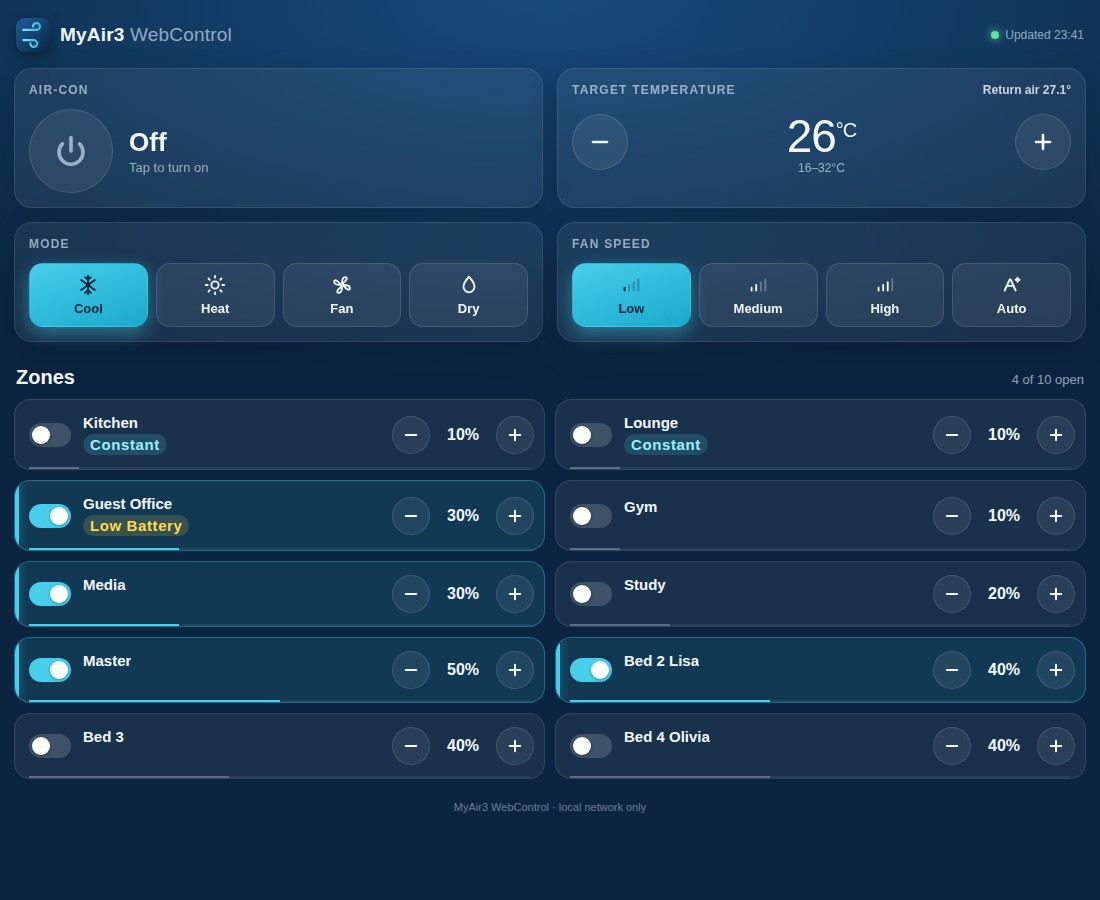
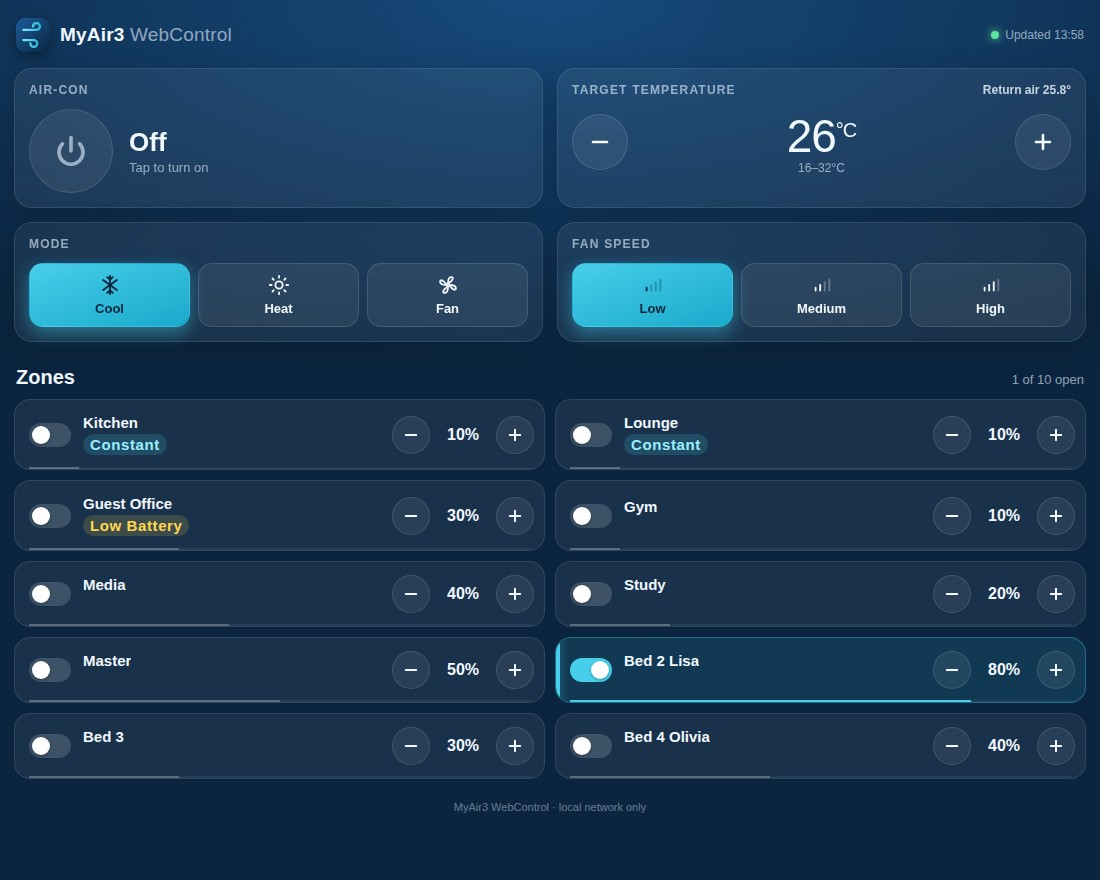
Match the MyAir3 app: hide Dry and Auto, 10% zone steps
The official Android app hides the Dry mode and Auto fan buttons when it
runs as the MyAir3 app, and the MyAir3 wall panel does not offer them.
Zone airflow now moves in 10% steps.

diff --git a/index.html b/index.html
@@ -52,7 +52,7 @@
   .card h2 em { font-style: normal; text-transform: none; letter-spacing: 0; color: var(--text); opacity: .8; }
 
   /* segmented buttons */
-  .seg { display: grid; gap: 8px; grid-template-columns: repeat(4, 1fr); }
+  .seg { display: grid; gap: 8px; grid-template-columns: repeat(3, 1fr); }
   .opt { appearance: none; border: 1px solid var(--idle-edge); background: var(--idle); color: var(--text);
     border-radius: 14px; min-height: 64px; padding: 8px 4px; font: inherit; font-size: 13px; font-weight: 600;
     display: flex; flex-direction: column; align-items: center; justify-content: center; gap: 5px;
@@ -135,11 +135,9 @@
   <symbol id="i-cool" viewBox="0 0 24 24"><path d="M12 2v20M4.5 6.5l15 11M19.5 6.5l-15 11"/><path d="M9 3.5l3 2.5 3-2.5M9 20.5l3-2.5 3 2.5"/></symbol>
   <symbol id="i-heat" viewBox="0 0 24 24"><circle cx="12" cy="12" r="4"/><path d="M12 2v2M12 20v2M4.9 4.9l1.4 1.4M17.7 17.7l1.4 1.4M2 12h2M20 12h2M4.9 19.1l1.4-1.4M17.7 6.3l1.4-1.4"/></symbol>
   <symbol id="i-fan" viewBox="0 0 24 24"><circle cx="12" cy="12" r="1.6"/><path d="M12 10.4c0-4 1-7 3.5-7s3 3.4-3.5 7zM13.6 12c4 0 7 1 7 3.5s-3.4 3-7-3.5zM12 13.6c0 4-1 7-3.5 7s-3-3.4 3.5-7zM10.4 12c-4 0-7-1-7-3.5s3.4-3 7 3.5z"/></symbol>
-  <symbol id="i-dry" viewBox="0 0 24 24"><path d="M12 3s6 6.4 6 11a6 6 0 0 1-12 0c0-4.6 6-11 6-11z"/></symbol>
   <symbol id="i-f1" viewBox="0 0 24 24"><path d="M5 18v-3"/><path d="M10 18v-6" opacity=".3"/><path d="M15 18v-9" opacity=".3"/><path d="M20 18V6" opacity=".3"/></symbol>
   <symbol id="i-f2" viewBox="0 0 24 24"><path d="M5 18v-3M10 18v-6"/><path d="M15 18v-9" opacity=".3"/><path d="M20 18V6" opacity=".3"/></symbol>
   <symbol id="i-f3" viewBox="0 0 24 24"><path d="M5 18v-3M10 18v-6M15 18v-9"/><path d="M20 18V6" opacity=".3"/></symbol>
-  <symbol id="i-auto" viewBox="0 0 24 24"><path d="M4 18l5.5-12h1L16 18"/><path d="M6.3 13h7.4"/><path d="M18 4l.7 1.6 1.6.7-1.6.7L18 8.6l-.7-1.6-1.6-.7 1.6-.7z"/></symbol>
 </svg>
 
 <div class="wrap">
@@ -172,7 +170,6 @@
         <button class="opt" data-mode="1"><svg class="i"><use href="#i-cool"/></svg>Cool</button>
         <button class="opt" data-mode="2"><svg class="i"><use href="#i-heat"/></svg>Heat</button>
         <button class="opt" data-mode="3"><svg class="i"><use href="#i-fan"/></svg>Fan</button>
-        <button class="opt" data-mode="5"><svg class="i"><use href="#i-dry"/></svg>Dry</button>
       </div>
     </div>
 
@@ -182,7 +179,6 @@
         <button class="opt" data-fan="1"><svg class="i"><use href="#i-f1"/></svg>Low</button>
         <button class="opt" data-fan="2"><svg class="i"><use href="#i-f2"/></svg>Medium</button>
         <button class="opt" data-fan="3"><svg class="i"><use href="#i-f3"/></svg>High</button>
-        <button class="opt" data-fan="4"><svg class="i"><use href="#i-auto"/></svg>Auto</button>
       </div>
     </div>
   </section>
@@ -198,7 +194,7 @@ const $ = s => document.querySelector(s);
 let S = null;
 let pendingTemp = null, tempTimer = null;
 const pendingPct = {}, pctTimers = {};
-const MODE_NAMES = { 1: 'Cooling', 2: 'Heating', 3: 'Fan only', 5: 'Dry' };
+const MODE_NAMES = { 1: 'Cooling', 2: 'Heating', 3: 'Fan only' };
 
 function setStatus(t, err) { const e = $('#status'); e.textContent = t; e.className = 'status' + (err ? ' err' : ''); }
 
@@ -270,8 +266,8 @@ function zoneEl(n) {
   const lab = el('div', 'zlabel'); lab.append(el('span'), el('small'));
   name.append(el('div', 'toggle'), lab);
   const ctl = el('div', 'zctl');
-  const minus = el('button', 'round'); minus.append(icon('i-minus')); minus.dataset.d = -5; minus.setAttribute('aria-label', 'Less air');
-  const plus = el('button', 'round'); plus.append(icon('i-plus')); plus.dataset.d = 5; plus.setAttribute('aria-label', 'More air');
+  const minus = el('button', 'round'); minus.append(icon('i-minus')); minus.dataset.d = -10; minus.setAttribute('aria-label', 'Less air');
+  const plus = el('button', 'round'); plus.append(icon('i-plus')); plus.dataset.d = 10; plus.setAttribute('aria-label', 'More air');
   ctl.append(minus, el('div', 'pct', '--%'), plus);
   const bar = el('div', 'bar'); bar.append(el('i'));
   d.append(name, ctl, bar);
@@ -284,8 +280,12 @@ function zoneEl(n) {
   [minus, plus].forEach(b => b.onclick = () => {
     const z = S.zones[n - 1];
     const cur = pendingPct[n] ?? z.percent;
-    const lo = Math.max(5, z.minDamper || 0), hi = Math.min(100, z.maxDamper || 100);
-    pendingPct[n] = Math.min(hi, Math.max(lo, cur + +b.dataset.d));
+    const d = +b.dataset.d;
+    const lo = Math.max(10, Math.ceil((z.minDamper || 0) / 10) * 10);
+    const hi = Math.min(100, Math.floor((z.maxDamper || 100) / 10) * 10);
+    // snap to the 10% grid first (old 5% values like 25 go to 20 or 30)
+    const next = d > 0 ? Math.floor(cur / 10) * 10 + 10 : Math.ceil(cur / 10) * 10 - 10;
+    pendingPct[n] = Math.min(hi, Math.max(lo, next));
     render();
     clearTimeout(pctTimers[n]);
     pctTimers[n] = setTimeout(async () => {

diff --git a/myair3_web.py b/myair3_web.py
@@ -11,8 +11,8 @@ Controller API (from MyAir3 Android app 3.290):
   GET /getSystemData
   GET /getZoneData?zone=N
   GET /setSystemData?airconOnOff=0|1
-  GET /setSystemData?mode=1|2|3|5          (cool, heat, fan, dry)
-  GET /setSystemData?fanSpeed=1|2|3|4      (low, medium, high, auto)
+  GET /setSystemData?mode=1|2|3            (cool, heat, fan; 5 = dry exists but MyAir3 hides it)
+  GET /setSystemData?fanSpeed=1|2|3        (low, medium, high; 4 = auto, hidden on MyAir3)
   GET /setSystemData?centralDesiredTemp=N  (minUserTemp..maxUserTemp)
   GET /setZoneData?zone=N&zoneSetting=0|1
   GET /setZoneData?zone=N&userPercentSetting=P
@@ -44,8 +44,9 @@ CTYPES = {".png": "image/png", ".svg": "image/svg+xml"}
 STATIC = {p.name: (p.read_bytes(), CTYPES[p.suffix]) for p in (Path(__file__).parent / "static").iterdir()
           if p.suffix in CTYPES}
 
-MODES = {1: "cool", 2: "heat", 3: "fan", 5: "dry"}
-FANS = {1: "low", 2: "medium", 3: "high", 4: "auto"}
+# The official MyAir3 app hides Dry (mode 5) and Auto fan (4) for MyAir3 systems, so we do too.
+MODES = {1: "cool", 2: "heat", 3: "fan"}
+FANS = {1: "low", 2: "medium", 3: "high"}
 
 _lock = threading.Lock()  # the controller is old: one request at a time
 _zone_cache = {"t": 0.0, "n": 0, "zones": []}
@@ -157,8 +158,8 @@ def apply_zone(req, sysinfo):
         ctl(f"setZoneData?zone={z}&zoneSetting={1 if req['open'] else 0}")
     if "percent" in req:
         p = int(req["percent"])
-        if not 0 <= p <= 100 or p % 5:
-            raise ValueError("percent must be 0-100 in steps of 5")
+        if not 0 <= p <= 100 or p % 10:
+            raise ValueError("percent must be 0-100 in steps of 10")
         ctl(f"setZoneData?zone={z}&userPercentSetting={p}")
     _zone_cache["t"] = 0.0
 

diff --git a/README.md b/README.md
@@ -76,11 +76,13 @@ The controller speaks plain HTTP on port 80 and answers with XML. After a succes
 | `getSystemData` | Read the current system state |
 | `getZoneData?zone=N` | Read one zone |
 | `setSystemData?airconOnOff=0\|1` | Turn the air conditioner off or on |
-| `setSystemData?mode=1\|2\|3\|5` | Set mode: 1 cool, 2 heat, 3 fan, 5 dry |
-| `setSystemData?fanSpeed=1\|2\|3\|4` | Set fan speed: 1 low, 2 medium, 3 high, 4 auto |
+| `setSystemData?mode=1\|2\|3` | Set mode: 1 cool, 2 heat, 3 fan (see note on Dry below) |
+| `setSystemData?fanSpeed=1\|2\|3` | Set fan speed: 1 low, 2 medium, 3 high (see note on Auto below) |
 | `setSystemData?centralDesiredTemp=N` | Set target temperature, between `minUserTemp` and `maxUserTemp`, usually 16 to 32 |
 | `setZoneData?zone=N&zoneSetting=0\|1` | Close or open a zone |
-| `setZoneData?zone=N&userPercentSetting=P` | Set zone airflow, 5 to 100 in steps of 5 |
+| `setZoneData?zone=N&userPercentSetting=P` | Set zone airflow, 10 to 100 in steps of 10 |
+
+**Dry mode and Auto fan.** The Android app code knows `mode=5` (dry) and `fanSpeed=4` (auto), but it hides both buttons when it runs as the MyAir3 app. The MyAir3 wall panel does not offer them either. On my system, when the unit is put into Dry from a simple button panel, the MyAir3 controller reports the system as off. So this web app only offers Cool, Heat and Fan, and Low, Medium and High.
 
 You do not need to use this API directly. The web app wraps it, validates the values, and logs in again on its own when the controller asks for it.
 
